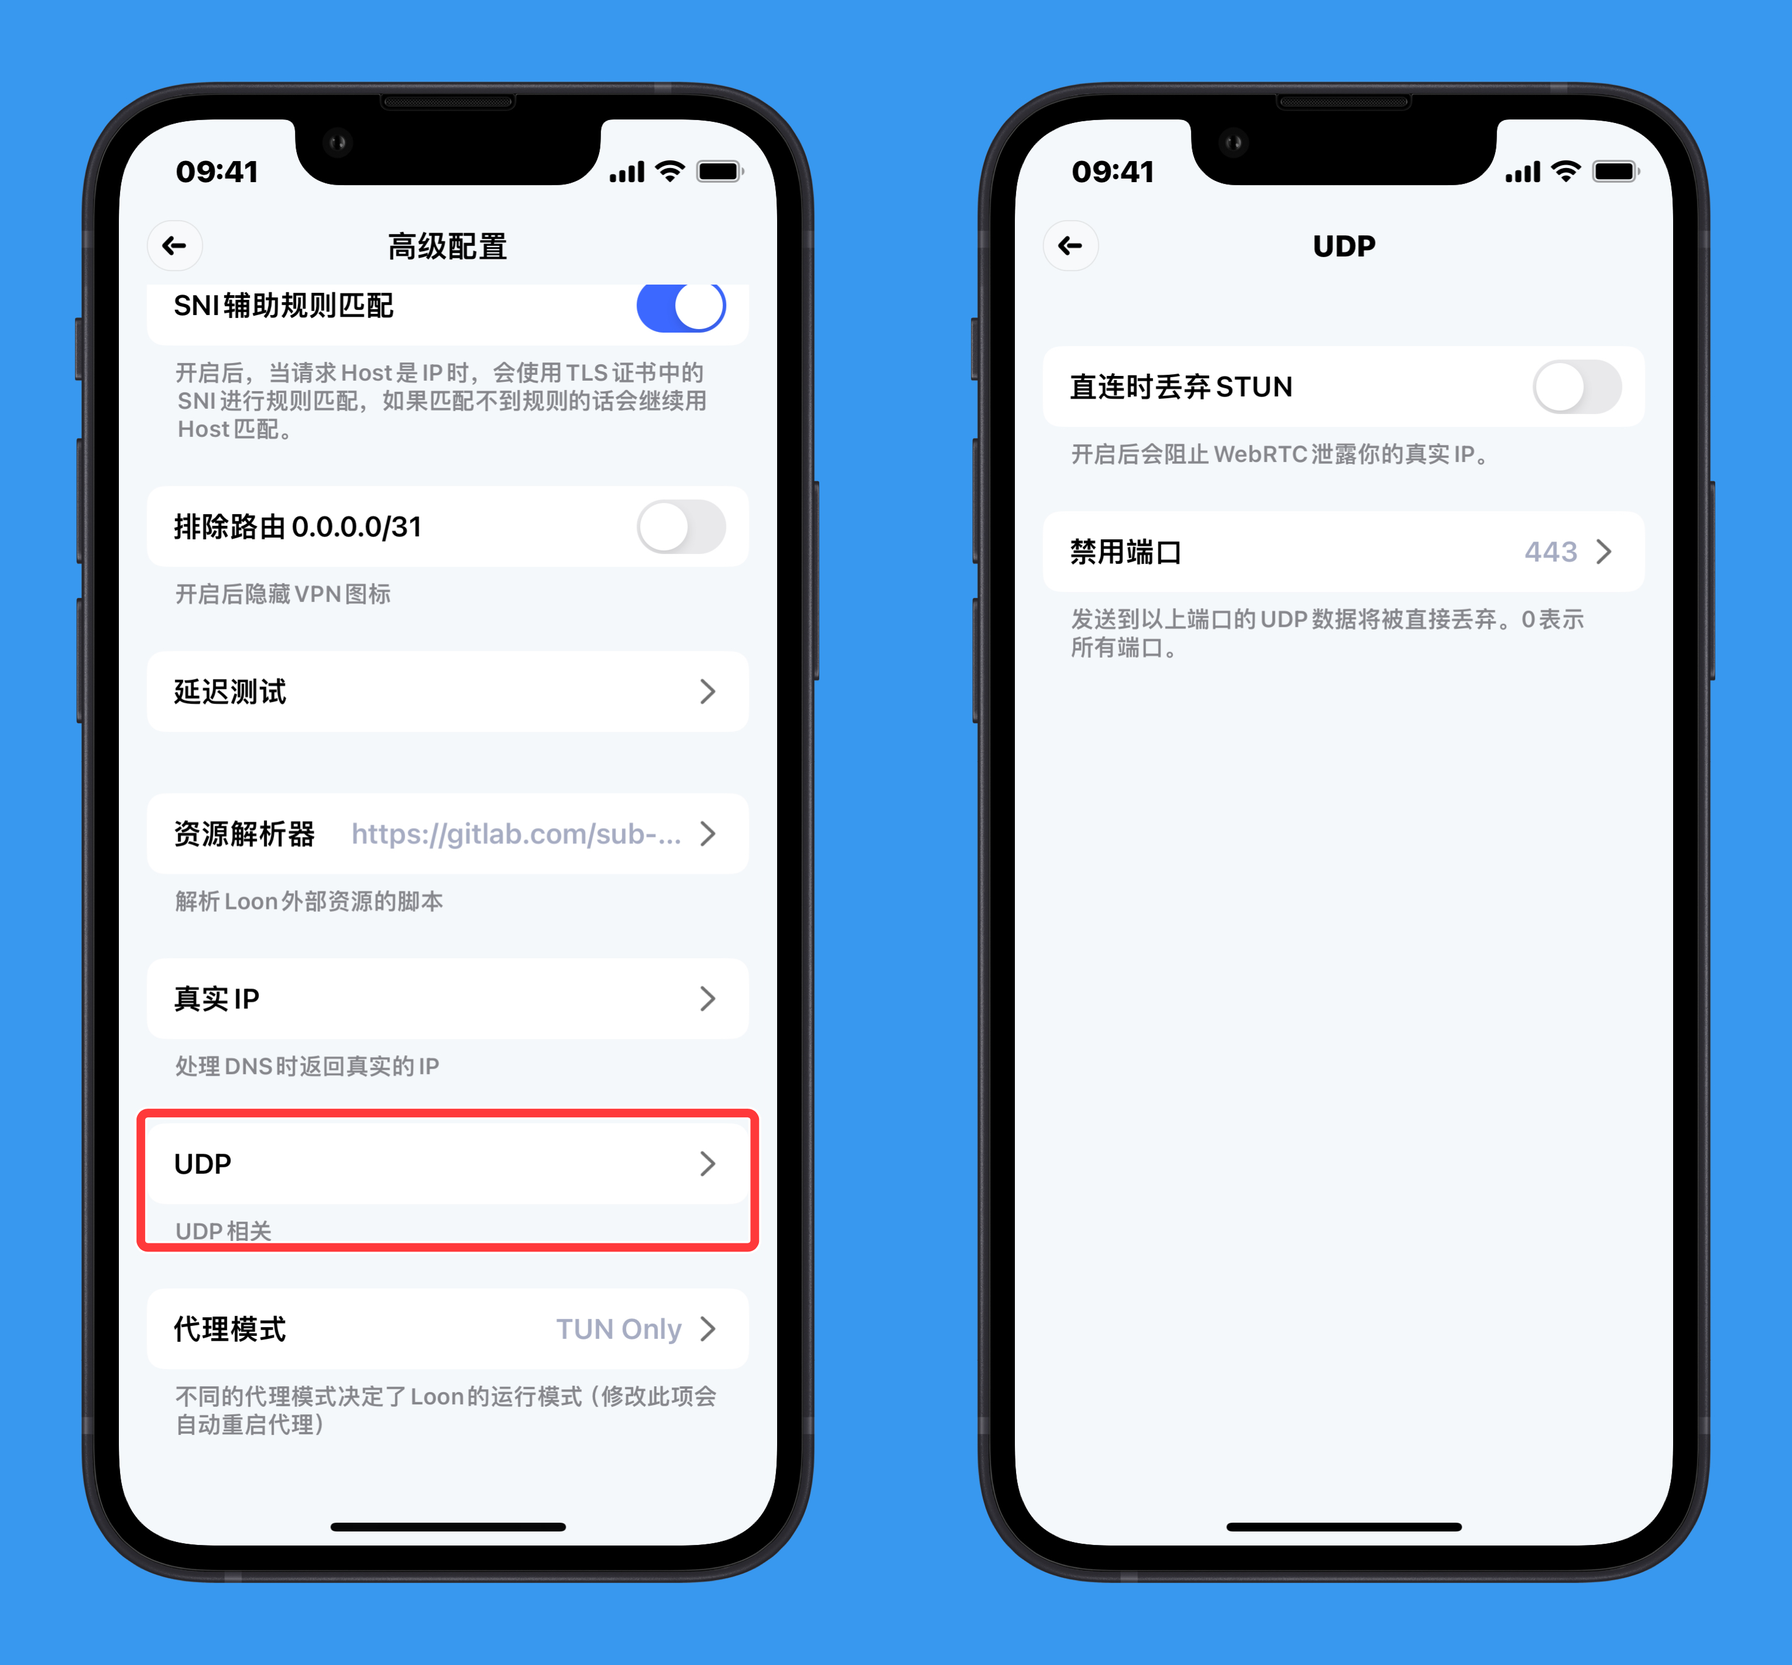
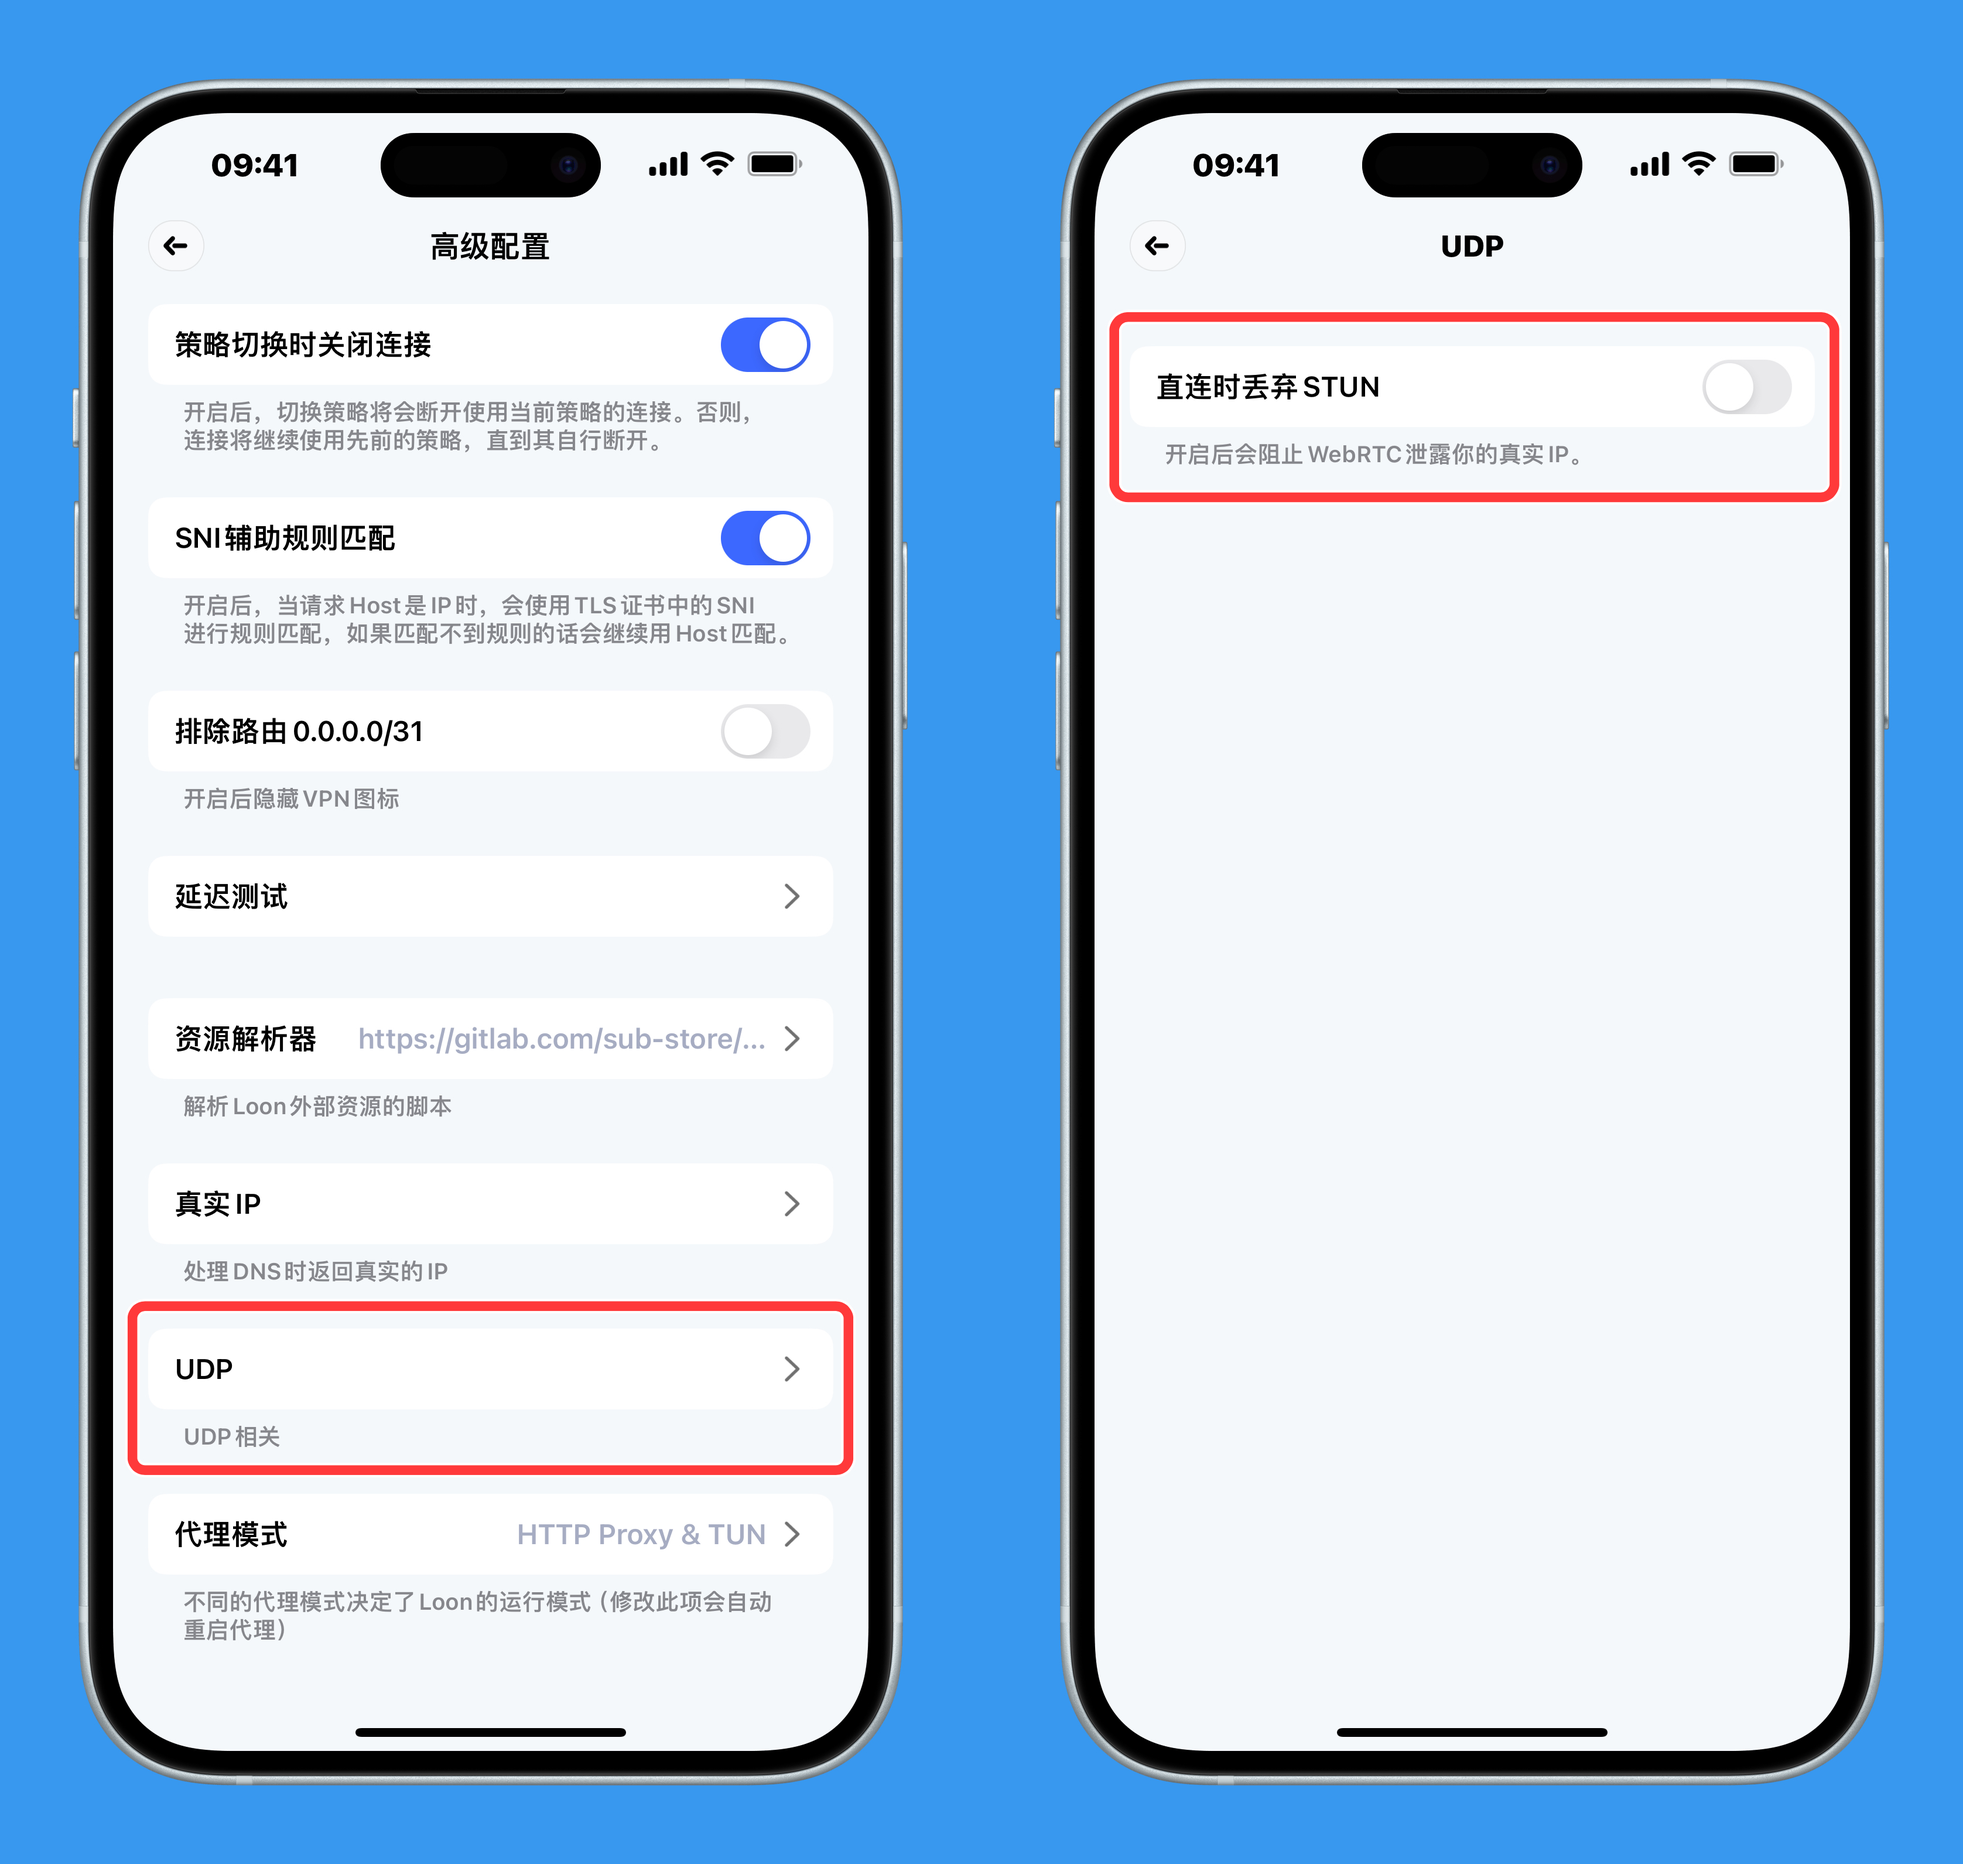
Update

diff --git a/docs/loon/filter.md b/docs/loon/filter.md
@@ -269,6 +269,39 @@ DEST-PORT,>=443,DIRECT
 PROTOCOL,STUN,REJECT
 ```
 
+#### 3.2.6 逻辑规则
+
+使用或、与、非逻辑将多个规则合并成一个规则（3.1.7+）,此类规则建议直接文本编辑。
+
+!>如果逻辑规则里面有域名有IP，尽量把IP的子规则放在后面，防止不必要的DNS查询
+
+##### AND
+多个子规则同时满足时才会匹配
+
+
+```
+# AND,((子规则),(子规则)),Policy
+AND,((DOMAIN-SUFFIX,axample),(DEST-PORT,443),(GEOIP,CN)),DIRECT
+```
+
+##### OR
+
+子规则满足一个时匹配
+
+```
+# OR,((子规则),(子规则)),PolicyN
+OR,((DOMAIN-SUFFIX,axample),(DEST-PORT,443),(GEOIP,CN,no-resolve)),DIRECT
+```
+
+##### NOT
+
+子规则不满足时匹配，只有有一个子规则
+
+```
+# NOT,((子规则)),Policy
+NOT,((AND,((DOMAIN-SUFFIX,axample),(DEST-PORT,443),(GEOIP,CN)))),DIRECT
+```
+
 
 #### 3.2.6 `FINAL`规则
 

diff --git a/docs/loon/general.md b/docs/loon/general.md
@@ -142,10 +142,8 @@ real-ip = *.apple.com,*.icloud.com
 
 # 禁用stun是否禁用stun协议的udp数据，禁用后可以有效解决webrtc的ip泄露
 disable-stun = true
-
-# 禁用udp协议的一些端口
-disable-udp-ports = 443,80
 ```
+!> Loon 1.1.7 版本开始舍弃 `disable-udp-ports` 参数，转为使用端口协议及逻辑规则
 
 #### 11.1.14 代理模式
 
